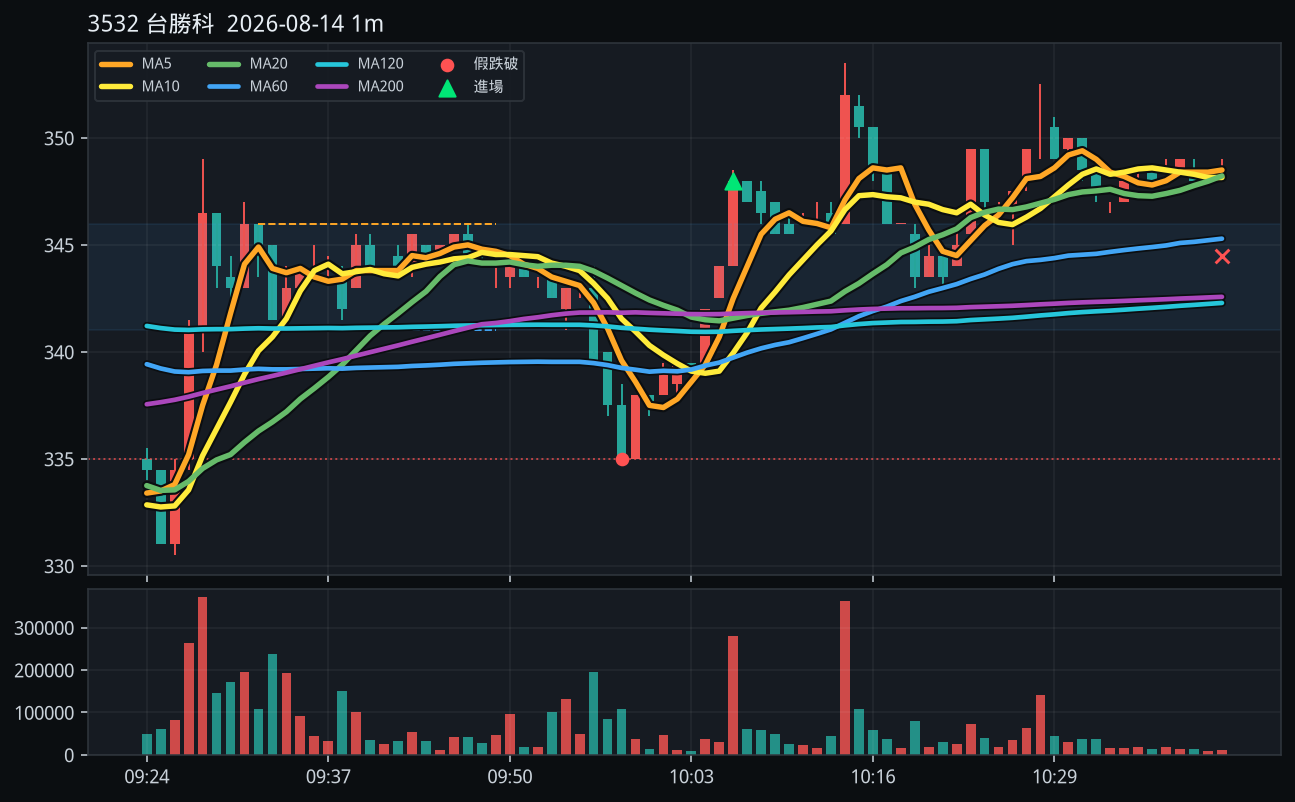
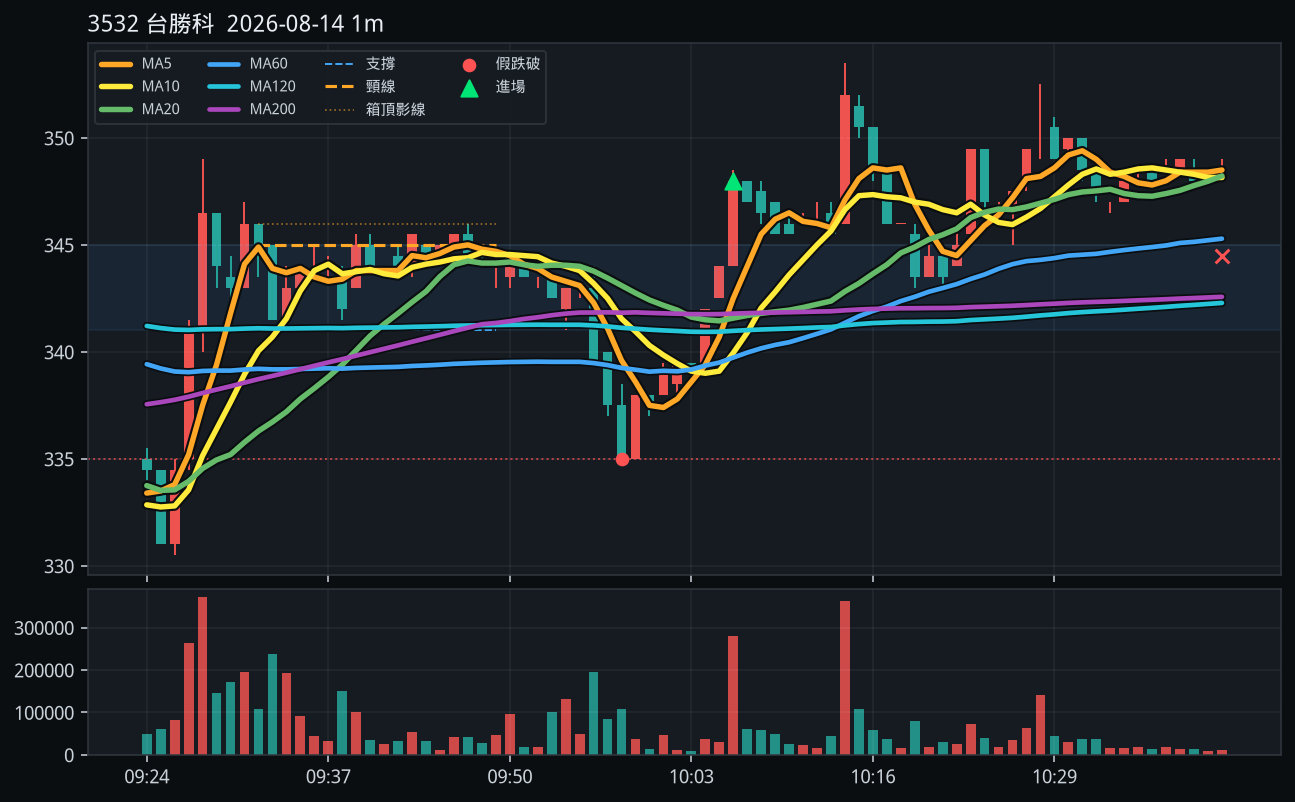
Show the lower close-high neckline on the public spring gallery.
Feature 8358 at 09:50 and include the rest of the Friday same-session hits.

Changed region(s): [[0.2162, 0.0623, 0.3398, 0.1559], [0.0618, 0.0623, 0.2162, 0.1559], [0.3398, 0.0623, 0.4324, 0.1247]]

diff --git a/spring/index.html b/spring/index.html
@@ -4,7 +4,7 @@
   <meta charset="utf-8" />
   <meta name="viewport" content="width=device-width, initial-scale=1" />
   <meta http-equiv="Cache-Control" content="no-cache, no-store, must-revalidate" />
-  <title>2026-08-14 假跌破 · 含金居</title>
+  <title>2026-08-14 假跌破 · 頸線改吃收盤高</title>
   <style>
     * { box-sizing: border-box; }
     body { margin: 0; background: #0b0e11; color: #e6edf3; font-family: -apple-system, BlinkMacSystemFont, "Segoe UI", "Noto Sans TC", sans-serif; }
@@ -26,8 +26,8 @@
 </head>
 <body>
   <div class="page">
-    <h1>假跌破 · 已對齊金居節奏</h1>
-    <p class="sub">2026-08-14 成交額前 50。站回後最多等 24 根才突破（金居 09:35 站回、09:53 放量站上箱頂）。箱體不可跨夜、略過開盤 5 分鐘。</p>
+    <h1>假跌破 · 頸線改吃收盤高</h1>
+    <p class="sub">2026-08-14 成交額前 50。橘虛線是頸線（盤整收盤高，不吃上影），點線是箱頂影線。金居頸線 423，09:50 收 424 進場（舊規則要等 425 / 09:53）。</p>
     <div class="mas">
       <span style="color:#ffa726">MA5</span>
       <span style="color:#ffeb3b">MA10</span>
@@ -38,14 +38,14 @@
     </div>
 
     <article class="card feature">
-      <h2>8358 金居 · 09:53 <span class="tag tp">TP +25</span></h2>
-      <p>進 425.5 / 停 413 / 目標 450.5 · 跌破 0.96% · 量 2.52x</p>
-      <img src="8358_0953_v2.png" alt="8358 金居" />
+      <h2>8358 金居 · 09:50 <span class="tag tp">TP +22</span></h2>
+      <p>進 424 / 停 413 / 目標 446 · 頸線 423（箱頂影線 425）· 量 3.11x</p>
+      <img src="8358_0950_v2.png" alt="8358 金居" />
     </article>
     <article class="card">
-      <h2>4958 臻鼎-KY · 09:45 <span class="tag time">TIME +6</span></h2>
-      <p>進 500 / 停 486.5 / 目標 527</p>
-      <img src="4958_0945_v2.png" alt="4958 臻鼎" />
+      <h2>4958 臻鼎-KY · 09:42 <span class="tag tp">TP +21</span></h2>
+      <p>進 497 / 停 486.5 / 目標 518</p>
+      <img src="4958_0942_v2.png" alt="4958 臻鼎" />
     </article>
     <article class="card">
       <h2>3481 群創 · 09:50 <span class="tag time">TIME -1</span></h2>
@@ -58,14 +58,19 @@
       <img src="3532_1006_v2.png" alt="3532 台勝科 10:06" />
     </article>
     <article class="card">
-      <h2>3532 台勝科 · 11:28 <span class="tag sl">SL -8</span></h2>
-      <p>進 351.5 / 停 343.5 / 目標 367.5</p>
-      <img src="3532_1128_v2.png" alt="3532 台勝科 11:28" />
+      <h2>2327 國巨 · 11:25 <span class="tag time">TIME -11</span></h2>
+      <p>進 633 / 停 617 / 目標 665</p>
+      <img src="2327_1125_v2.png" alt="2327 國巨" />
     </article>
     <article class="card">
-      <h2>6770 力積電 · 11:42 <span class="tag time">TIME -0.6</span></h2>
-      <p>進 79.4 / 停 77.8 / 目標 82.6</p>
-      <img src="6770_1142_v2.png" alt="6770 力積電" />
+      <h2>3532 台勝科 · 11:27 <span class="tag sl">SL -7.5</span></h2>
+      <p>進 351 / 停 343.5 / 目標 366</p>
+      <img src="3532_1127_v2.png" alt="3532 台勝科 11:27" />
+    </article>
+    <article class="card">
+      <h2>6770 力積電 · 11:41 <span class="tag time">TIME -0.3</span></h2>
+      <p>進 79.1 / 停 77.8 / 目標 81.7</p>
+      <img src="6770_1141_v2.png" alt="6770 力積電" />
     </article>
   </div>
 </body>
